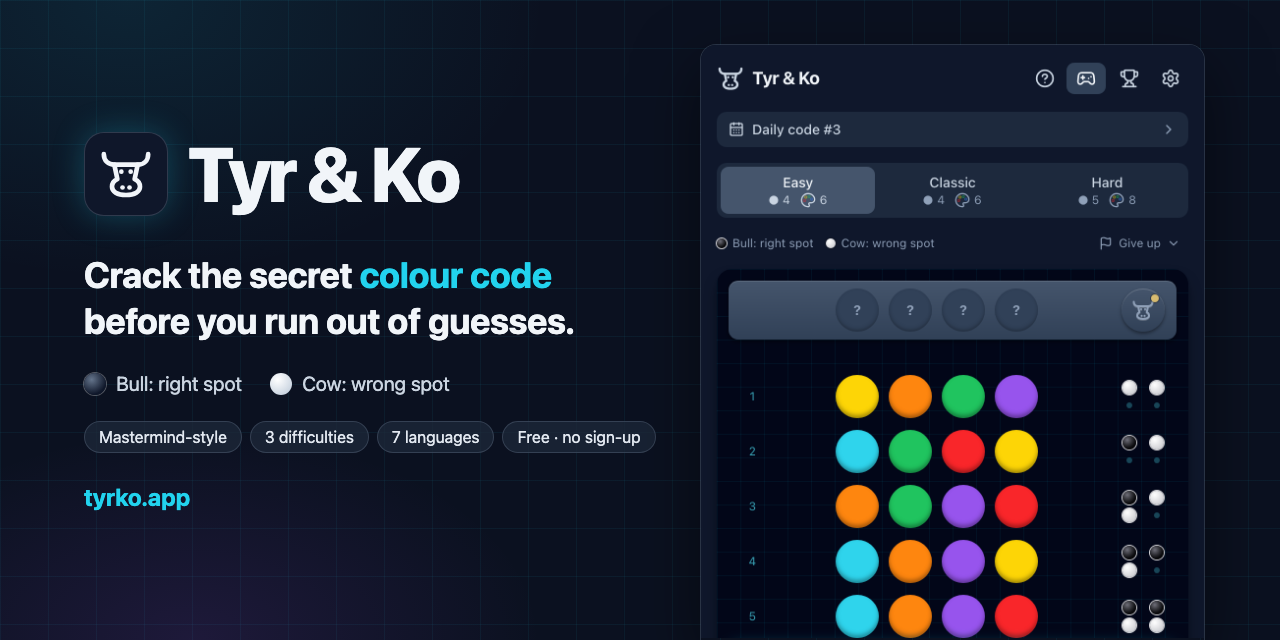
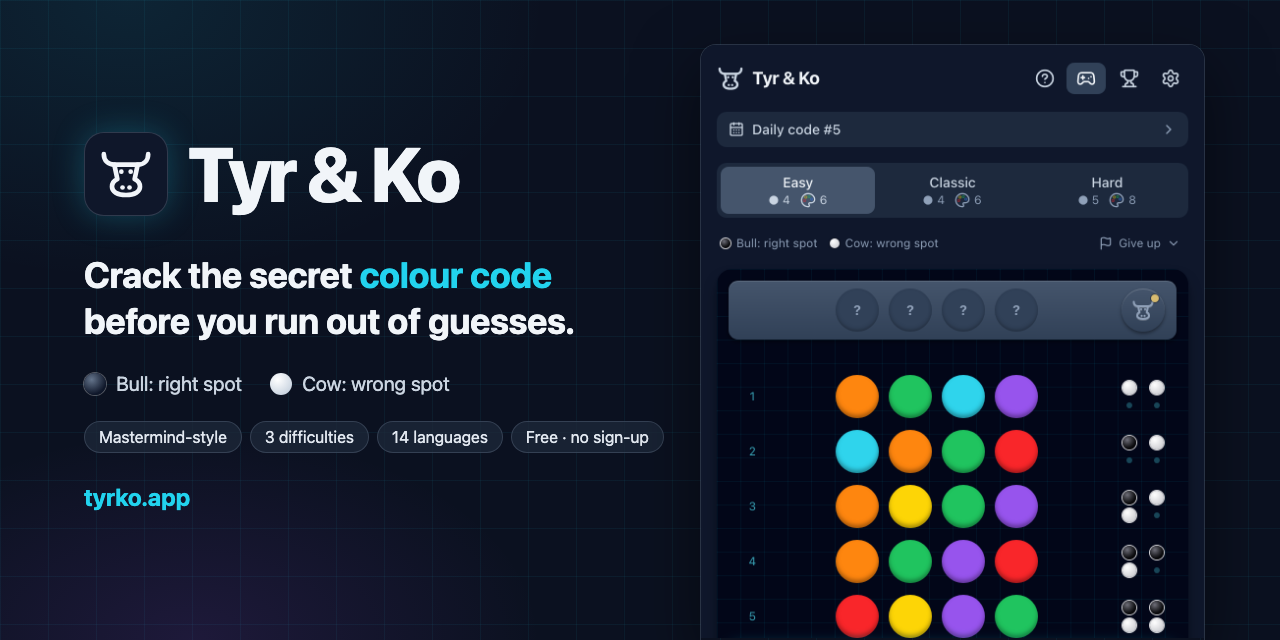
fix(social): count languages on the link card
The card said 7 languages after the app reached 14. The script now counts LANGUAGES and DIFFICULTY_KEYS, and the image is regenerated with a new cache-busting version.

Changed region(s): [[0.6562, 0.5625, 0.8125, 1.0], [0.3125, 0.6562, 0.5, 0.7188], [0.5625, 0.375, 0.75, 0.4062]]

diff --git a/scripts/generate-social-preview.ts b/scripts/generate-social-preview.ts
@@ -27,10 +27,12 @@ import {
 } from "../src/components/icons/bullMark.ts";
 import {
   DIFFICULTIES,
+  DIFFICULTY_KEYS,
   paletteFor,
   scoreGuess,
   type Color,
 } from "../src/features/game/logic.ts";
+import { LANGUAGES } from "../src/i18n/languages.ts";
 
 const OUTPUT = "public/social-preview.png";
 const HTML = "index.html";
@@ -170,8 +172,9 @@ function stampVersion(image: Buffer): string {
 function cardHtml(appImage: Buffer): string {
   const chips = [
     "Mastermind-style",
-    "3 difficulties",
-    "7 languages",
+    // Counted, so adding a language or difficulty can't leave the card stale.
+    `${DIFFICULTY_KEYS.length} difficulties`,
+    `${LANGUAGES.length} languages`,
     "Free · no sign-up",
   ]
     .map((chip) => `<span class="chip">${chip}</span>`)

diff --git a/index.html b/index.html
@@ -35,7 +35,7 @@
     <meta property="og:site_name" content="Tyr & Ko" />
     <meta
       property="og:image"
-      content="https://www.tyrko.app/social-preview.png?v=f81c756b"
+      content="https://www.tyrko.app/social-preview.png?v=ec761c27"
     />
     <meta property="og:image:type" content="image/png" />
     <meta property="og:image:width" content="1280" />
@@ -57,7 +57,7 @@
     />
     <meta
       name="twitter:image"
-      content="https://www.tyrko.app/social-preview.png?v=f81c756b"
+      content="https://www.tyrko.app/social-preview.png?v=ec761c27"
     />
     <meta
       name="twitter:image:alt"

diff --git a/BUGS.md b/BUGS.md
@@ -1,10 +1,3 @@
 # Bugs
 
 Out-of-scope bugs found during development. Newest at the bottom.
-
-2026-11-27
-Component: scripts/generate-social-preview.ts (public/social-preview.png)
-Expected: The link-share card states the current language count (14)
-Actual: The card shows a hard-coded "7 languages" chip, visible under every shared daily result on X, Threads and Bluesky
-Repro: Share a daily result to X; the link card reads "7 languages"
-Workaround: none; fix the chip (or derive it from LANGUAGES) and run `pnpm social-preview`
